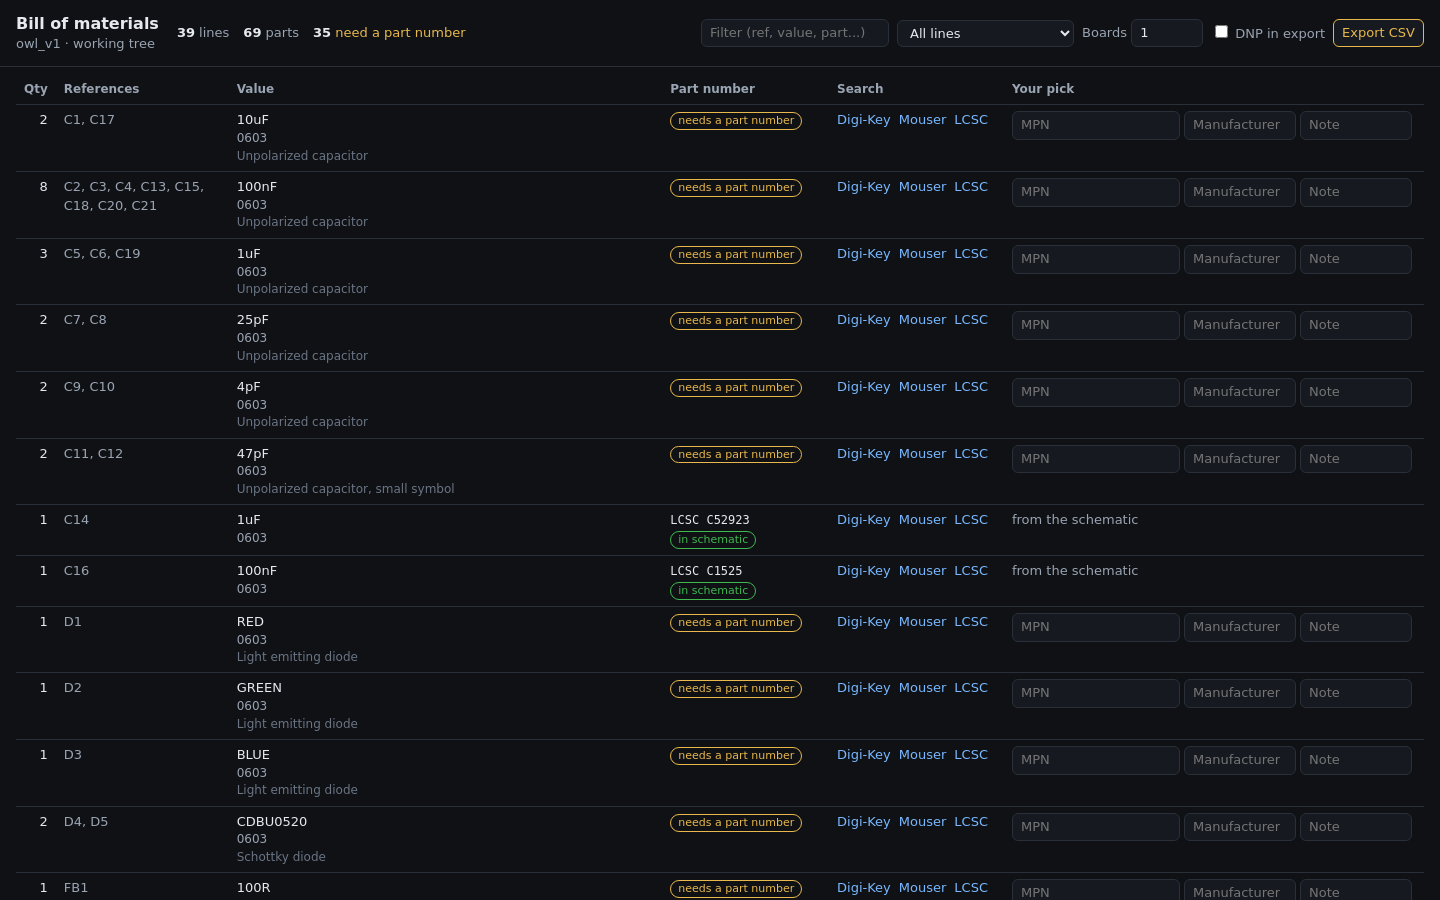
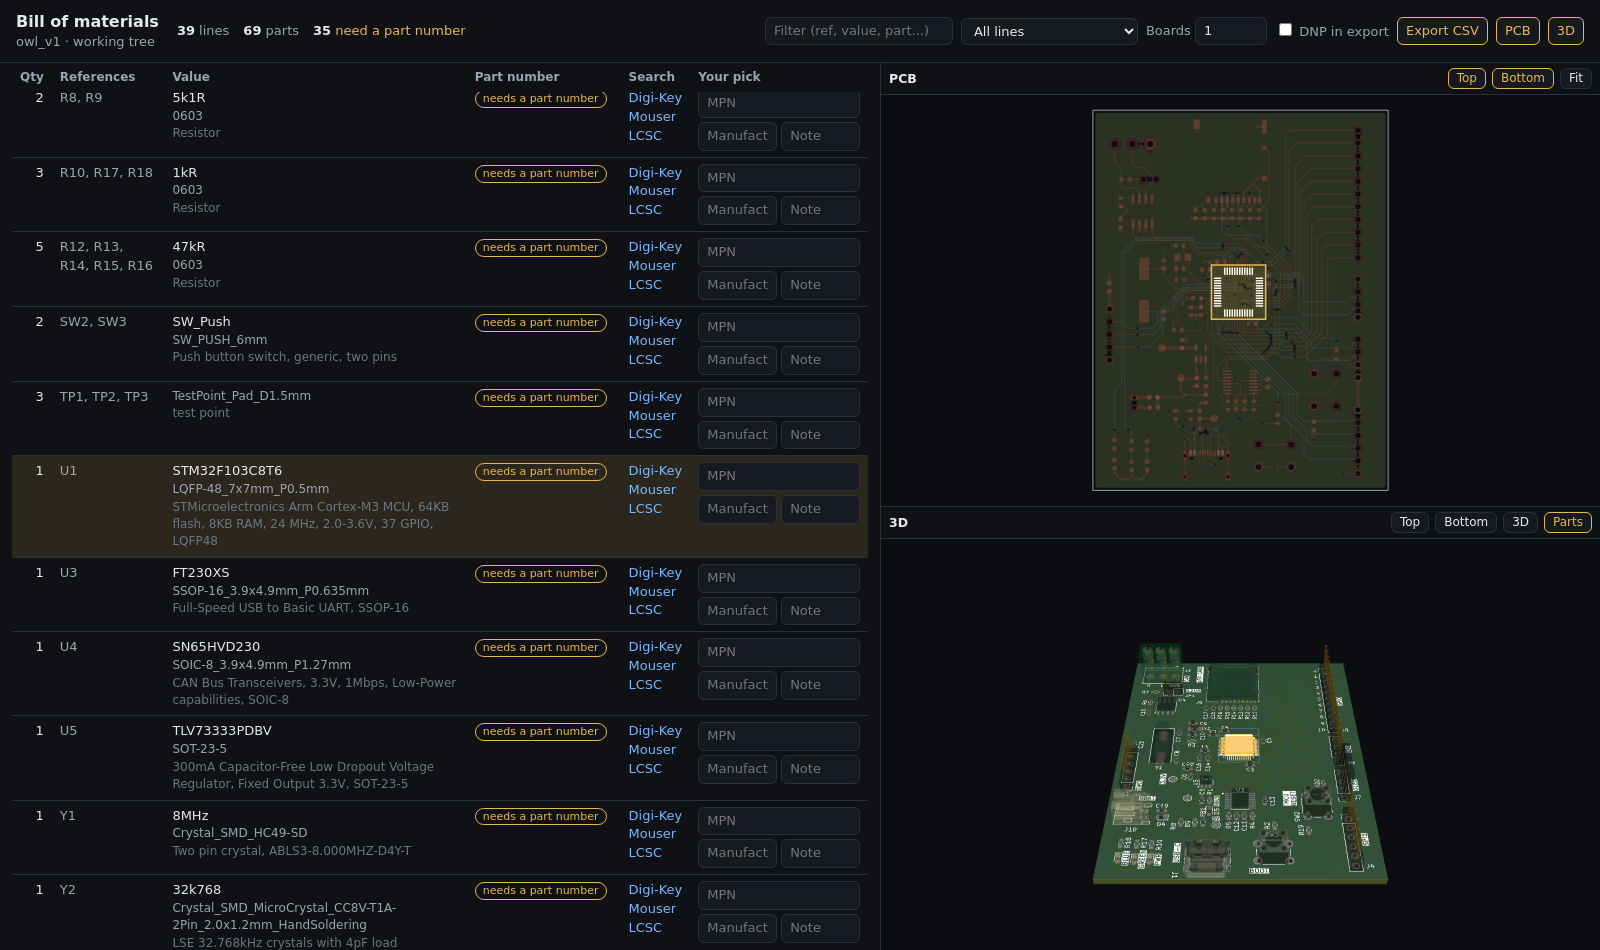
[feat] BOM system shows up with the pcb render and its pcb trace

diff --git a/gui/kigit_gui/bom.py b/gui/kigit_gui/bom.py
@@ -3,6 +3,10 @@ links to search Digi-Key, Mouser and LCSC for each line, the part number
 you chose for lines that have none, and a CSV for the distributors' BOM
 upload tools.
 
+Beside the list: the board in 2D (kigit's own board data, REV..REV) and
+in 3D (the 3D view's model, made after the page opens). Hovering a line
+lights its parts up in both; hovering a part lights its line up.
+
 Only made when asked (the header's BOM button); nothing runs in the
 background. Your picks are kept next to the board in kigit-bom.json (in
 git, so they go with the project), keyed by a line's value and footprint,
@@ -17,11 +21,11 @@ import json
 import re
 import secrets
 import time
-from dataclasses import dataclass
+from dataclasses import dataclass, field
 from pathlib import Path
 
 from fastapi import Request
-from fastapi.responses import HTMLResponse, JSONResponse, Response
+from fastapi.responses import FileResponse, HTMLResponse, JSONResponse, Response
 from nicegui import app
 
 PICKS = "kigit-bom.json"
@@ -33,6 +37,12 @@ class Job:
     board: str
     title: str
     data: dict
+    board_json: str = ""            # the 2D view's data, a file in CACHE ("" if it couldn't be made)
+    glb: str = ""                   # the 3D model, a file in CACHE (made after the page opens)
+    model_ready: bool = False
+    model_error: str = ""
+    expected: float | None = None   # seconds the 3D build should take, if known
+    started: float = field(default_factory=time.monotonic)
 
 
 jobs: dict[str, Job] = {}
@@ -92,6 +102,25 @@ async def _page(key: str) -> Response:
     return HTMLResponse(page(key, job))
 
 
+@app.get("/bom/{key}/board.json")
+async def _board(key: str) -> Response:
+    from .app import CACHE
+
+    job = jobs.get(key)
+    if job is None or not job.board_json or not (CACHE / job.board_json).is_file():
+        return JSONResponse({"error": "no board data"}, status_code=404)
+    return FileResponse(CACHE / job.board_json, media_type="application/json")
+
+
+@app.get("/bom/{key}/status")
+async def _status(key: str) -> Response:
+    job = jobs.get(key)
+    if job is None:
+        return JSONResponse({"error": "gone"}, status_code=404)
+    return JSONResponse({"ready": job.model_ready, "error": job.model_error, "glb": f"/diffs/{job.glb}",
+                         "elapsed": time.monotonic() - job.started, "expected": job.expected})
+
+
 @app.get("/bom/{key}/picks")
 async def _picks(key: str) -> Response:
     job = jobs.get(key)
@@ -125,175 +154,4 @@ def page(key: str, job: Job) -> str:
             .replace("%%DATA%%", data))
 
 
-_PAGE = """<!doctype html>
-<html lang="en">
-<head>
-<meta charset="utf-8">
-<meta name="viewport" content="width=device-width, initial-scale=1">
-<title>BOM · %%TITLE%%</title>
-<style>
-:root { --bg: #0f1115; --panel: #161a20; --line: #29303a; --text: #e6e9ee; --muted: #9aa4b2; --faint: #6b7584;
-  --accent: #e8b84d; --ok: #3fb950; --warn: #e8b84d; --bad: #f85149; --link: #79b8ff; }
-@media (prefers-color-scheme: light) { :root { --bg: #f6f7f9; --panel: #fff; --line: #d8dde4; --text: #1d2229;
-  --muted: #5b6573; --faint: #8a94a3; --accent: #9a6b00; --ok: #1a7f37; --warn: #9a6b00; --bad: #cf222e; --link: #0969da; } }
-* { box-sizing: border-box; }
-body { margin: 0; background: var(--bg); color: var(--text); font: 13px/1.45 system-ui, -apple-system, "Segoe UI", sans-serif; }
-header { position: sticky; top: 0; z-index: 2; background: var(--bg); border-bottom: 1px solid var(--line);
-  padding: 12px 16px; display: flex; flex-wrap: wrap; gap: 8px 18px; align-items: center; }
-h1 { font-size: 16px; margin: 0; } .sub { color: var(--muted); }
-.stats { display: flex; gap: 14px; color: var(--muted); }
-.stats b { color: var(--text); }
-.tools { margin-left: auto; display: flex; gap: 8px; align-items: center; flex-wrap: wrap; }
-input, select, button { font: inherit; color: var(--text); background: var(--panel); border: 1px solid var(--line);
-  border-radius: 6px; padding: 4px 8px; }
-button { cursor: pointer; } button:hover { border-color: var(--accent); }
-button.primary { border-color: var(--accent); color: var(--accent); }
-main { padding: 8px 16px 40px; }
-table { width: 100%; border-collapse: collapse; }
-th { text-align: left; font-weight: 600; color: var(--muted); font-size: 12px; padding: 6px 8px; border-bottom: 1px solid var(--line);
-  position: sticky; top: var(--head, 56px); background: var(--bg); z-index: 1; }
-td { padding: 6px 8px; border-bottom: 1px solid var(--line); vertical-align: top; }
-tr.dnp td { opacity: .55; }
-.refs { color: var(--muted); max-width: 18rem; }
-.qty { text-align: right; font-variant-numeric: tabular-nums; }
-.pkg { color: var(--muted); font-size: 12px; } .desc { color: var(--faint); font-size: 12px; }
-.num { font-family: ui-monospace, Menlo, Consolas, monospace; font-size: 12px; }
-.chip { display: inline-block; font-size: 11px; border-radius: 999px; padding: 0 7px; border: 1px solid; white-space: nowrap; }
-.chip.ok { color: var(--ok); } .chip.picked { color: var(--link); } .chip.need { color: var(--warn); } .chip.dnp { color: var(--faint); }
-.links a { color: var(--link); text-decoration: none; margin-right: 8px; white-space: nowrap; }
-.links a:hover { text-decoration: underline; }
-.pick { display: flex; gap: 4px; align-items: center; }
-.pick input { width: 10.5rem; min-width: 0; } .pick input.maker { width: 7rem; } .pick input.note { width: 7rem; }
-@media (max-width: 1100px) { .pick { flex-wrap: wrap; } }
-.pick .saved { color: var(--ok); font-size: 11px; align-self: center; }
-.empty { color: var(--faint); padding: 30px; text-align: center; }
-.foot { color: var(--faint); font-size: 12px; margin-top: 14px; }
-</style>
-</head>
-<body>
-<header id="head">
-  <div><h1>Bill of materials</h1><div class="sub">%%TITLE%%</div></div>
-  <div class="stats" id="stats"></div>
-  <div class="tools">
-    <input id="filter" placeholder="Filter (ref, value, part...)" aria-label="Filter">
-    <select id="show" aria-label="Show">
-      <option value="all">All lines</option><option value="need">Needs a part number</option>
-      <option value="has">Has a part number</option>
-    </select>
-    <label class="sub">Boards <input id="boards" type="number" min="1" value="1" style="width:4.5rem"></label>
-    <label class="sub"><input id="dnp" type="checkbox"> DNP in export</label>
-    <button id="export" class="primary" title="A CSV for Digi-Key's BOM Manager or Mouser's BOM Tool">Export CSV</button>
-  </div>
-</header>
-<main>
-<table>
-  <thead><tr><th class="qty">Qty</th><th>References</th><th>Value</th><th>Part number</th><th>Search</th><th>Your pick</th></tr></thead>
-  <tbody id="rows"></tbody>
-</table>
-<div class="foot">Picks are saved as you type, in <code>%%PICKS_FILE%%</code> (commit it to share them). Part numbers in the
-schematic win over picks. The search links only open the distributors' sites: nothing is sent anywhere by kigit.</div>
-</main>
-<script>
-const DATA = %%DATA%%, KEY = "%%KEY%%", NAME = %%NAME%%;
-let picks = {};
-const $ = (id) => document.getElementById(id);
-const esc = (t) => String(t ?? "").replace(/[&<>"]/g, (c) => ({ "&": "&amp;", "<": "&lt;", ">": "&gt;", '"': "&quot;" })[c]);
-const keyOf = (l) => `${l.value}|${l.footprint}`;
-const own = (l) => l.mpn || l.digikey || l.mouser || l.lcsc;  // a number from the schematic
-const enc = (q) => encodeURIComponent(q).replace(/%20/g, "+");
-function links(l) {
-  const p = picks[keyOf(l)], q = !own(l) && p?.mpn ? p.mpn : null;  // a pick searches for itself
-  const url = (site) => q ? { digikey: "https://www.digikey.com/en/products/result?keywords=", mouser: "https://www.mouser.com/c/?q=",
-    lcsc: "https://www.lcsc.com/search?q=" }[site] + enc(q) : l.links[site];
-  return `<a href="${esc(url("digikey"))}" target="_blank" rel="noopener">Digi-Key</a>` +
-    `<a href="${esc(url("mouser"))}" target="_blank" rel="noopener">Mouser</a>` +
-    `<a href="${esc(url("lcsc"))}" target="_blank" rel="noopener">LCSC</a>`;
-}
-function number(l) {
-  if (l.mpn) return `<span class="num">${esc(l.manufacturer ? l.manufacturer + " " : "")}${esc(l.mpn)}</span>`;
-  const other = [["Digi-Key", l.digikey], ["Mouser", l.mouser], ["LCSC", l.lcsc]].filter(([, v]) => v);
-  if (other.length) return other.map(([s, v]) => `<span class="num">${s} ${esc(v)}</span>`).join("<br>");
-  return "";
-}
-function status(l) {
-  if (l.dnp) return `<span class="chip dnp">DNP</span>`;
-  if (own(l)) return `<span class="chip ok">in schematic</span>`;
-  if (picks[keyOf(l)]?.mpn) return `<span class="chip picked">picked</span>`;
-  return `<span class="chip need" title="No part number in the schematic: search, then put the one you choose in Your pick">needs a part number</span>`;
-}
-function render() {
-  const f = $("filter").value.trim().toLowerCase(), show = $("show").value;
-  const rows = DATA.lines.filter((l) => {
-    const has = own(l) || picks[keyOf(l)]?.mpn;
-    if (show === "need" && (has || l.dnp)) return false;
-    if (show === "has" && !has) return false;
-    if (!f) return true;
-    return [l.refs.join(" "), l.value, l.footprint, l.mpn, l.manufacturer, l.description, picks[keyOf(l)]?.mpn]
-      .join(" ").toLowerCase().includes(f);
-  });
-  $("rows").innerHTML = rows.map((l) => {
-    const i = DATA.lines.indexOf(l), p = picks[keyOf(l)] || {};
-    const pick = own(l) ? `<span class="sub">from the schematic</span>` :
-      `<div class="pick" data-i="${i}"><input class="mpn" placeholder="MPN" value="${esc(p.mpn)}" aria-label="Part number you chose">` +
-      `<input class="maker" placeholder="Manufacturer" value="${esc(p.manufacturer)}" aria-label="Manufacturer">` +
-      `<input class="note" placeholder="Note" value="${esc(p.note)}" aria-label="Note"><span class="saved"></span></div>`;
-    return `<tr class="${l.dnp ? "dnp" : ""}"><td class="qty">${l.qty}</td><td class="refs">${esc(l.refs.join(", "))}</td>` +
-      `<td>${esc(l.value)}<div class="pkg">${esc(l.package)}</div>${l.description ? `<div class="desc">${esc(l.description)}</div>` : ""}</td>` +
-      `<td>${number(l)} ${status(l)}</td><td class="links">${links(l)}</td><td>${pick}</td></tr>`;
-  }).join("") || `<tr><td colspan="6" class="empty">Nothing to show.</td></tr>`;
-  stats();
-}
-function stats() {
-  const lines = DATA.lines, need = lines.filter((l) => !l.dnp && !own(l) && !picks[keyOf(l)]?.mpn).length;
-  $("stats").innerHTML = `<span><b>${lines.length}</b> lines</span><span><b>${DATA.summary.parts}</b> parts</span>` +
-    (DATA.summary.dnp_parts ? `<span><b>${DATA.summary.dnp_parts}</b> not populated</span>` : "") +
-    `<span style="color:${need ? "var(--warn)" : "var(--ok)"}"><b>${need}</b> need a part number</span>`;
-  document.documentElement.style.setProperty("--head", $("head").offsetHeight + "px");
-}
-// Picks: saved a moment after typing stops.
-const timers = {};
-$("rows").addEventListener("input", (e) => {
-  const box = e.target.closest(".pick"); if (!box) return;
-  const l = DATA.lines[+box.dataset.i], k = keyOf(l);
-  const pick = { mpn: box.querySelector(".mpn").value, manufacturer: box.querySelector(".maker").value, note: box.querySelector(".note").value };
-  box.querySelector(".saved").textContent = "";
-  clearTimeout(timers[k]);
-  timers[k] = setTimeout(async () => {
-    try {
-      const r = await fetch(`/bom/${KEY}/picks`, { method: "POST", headers: { "Content-Type": "application/json" }, body: JSON.stringify({ key: k, pick }) });
-      if (!r.ok) throw new Error((await r.json()).error || r.status);
-      picks = await r.json();
-      box.querySelector(".saved").textContent = "saved";
-      const row = box.closest("tr"); row.children[3].innerHTML = `${number(l)} ${status(l)}`; row.children[4].innerHTML = links(l);
-      stats();
-    } catch (err) { box.querySelector(".saved").textContent = "not saved: " + err.message; box.querySelector(".saved").style.color = "var(--bad)"; }
-  }, 600);
-});
-$("filter").addEventListener("input", render);
-$("show").addEventListener("change", render);
-// The CSV: what Digi-Key's BOM Manager and Mouser's BOM Tool read (they let you match the columns).
-function csv() {
-  const boards = Math.max(1, parseInt($("boards").value, 10) || 1), withDnp = $("dnp").checked;
-  const cell = (v) => { v = String(v ?? ""); return /[",\\n\\r]/.test(v) ? `"${v.replace(/"/g, '""')}"` : v; };
-  const out = [["Quantity", "Manufacturer", "Manufacturer Part Number", "Digi-Key Part Number", "Mouser Part Number", "LCSC Part Number",
-    "References", "Value", "Footprint", "DNP", "Note"]];
-  for (const l of DATA.lines) {
-    if (l.dnp && !withDnp) continue;
-    const p = own(l) ? {} : (picks[keyOf(l)] || {});
-    out.push([l.dnp ? 0 : l.qty * boards, l.manufacturer || p.manufacturer, l.mpn || p.mpn, l.digikey, l.mouser, l.lcsc,
-      l.refs.join(" "), l.value, l.footprint, l.dnp ? "DNP" : "", p.note]);
-  }
-  return out.map((r) => r.map(cell).join(",")).join("\\r\\n") + "\\r\\n";
-}
-$("export").addEventListener("click", () => {
-  const a = document.createElement("a");
-  a.href = URL.createObjectURL(new Blob([csv()], { type: "text/csv" }));
-  a.download = `${NAME}-bom.csv`; a.click(); setTimeout(() => URL.revokeObjectURL(a.href), 1000);
-});
-window.kigitBom = { csv, picks: () => picks };  // for scripted checks
-fetch(`/bom/${KEY}/picks`).then((r) => r.json()).then((p) => { picks = p; render(); }).catch(() => render());
-addEventListener("resize", stats);
-</script>
-</body>
-</html>
-"""
+_PAGE = open(Path(__file__).with_name("bom_page.html"), encoding="utf-8").read()

diff --git a/gui/kigit_gui/app.py b/gui/kigit_gui/app.py
@@ -1695,16 +1695,34 @@ body.kigit-dragging iframe { pointer-events: none; }  /* else the frames swallow
         picked = table.selected if len(table.selected) == 1 else []
         rev = picked[0]["hash"] if picked else LOCAL
         name = state.get("name") or Path(board).stem
-        try:
-            data = await kigit.bom(board, rev)
-        except kigit.KigitError as e:
+        # The board for the 2D view: kept per revision (LOCAL: by the board's time and size).
+        glb = board3d_name(board, rev)
+        board_data = Path(glb).stem + "-board.json"
+        data, made = await asyncio.gather(kigit.bom(board, rev), kigit.board_json(board, rev, CACHE / board_data),
+                                          return_exceptions=True)
+        if isinstance(data, BaseException):
             tab(None)
-            notify(f"Couldn't make the BOM: {e}", type="warning")
+            notify(f"Couldn't make the BOM: {data}", type="warning")
             return
+        if isinstance(made, BaseException):  # the list still works without the 2D board
+            logs.log.warning("bom: no board data: %s", made)
+            board_data = ""
         title = f"{name} · {'working tree' if rev == LOCAL else short_rev(rev)}"
-        key = bom.new_job(bom.Job(board, title, data))
+        todo = not (CACHE / glb).exists()
+        job = bom.Job(board, title, data, board_json=board_data, glb=glb,
+                      expected=buildtime.estimate(board, 1) if todo else 1.0)
+        key = bom.new_job(job)
         logs.log.info("bom of %s at %s (job %s)", board, short_rev(rev), key)
         tab(f"/bom/{key}")
+        # Then the 3D model, while the page shows the list and the 2D board.
+        try:
+            failed = await build_models({rev: glb})
+            if failed:
+                job.model_error = str(failed[0][1])
+            else:
+                job.model_ready = True
+        except (kigit.KigitError, OSError) as e:
+            job.model_error = str(e)
 
     async def open_3d_diff() -> None:
         """The 3D diff (beta) of the comparison on screen, in a new tab: it

diff --git a/gui/tests/test_bom.py b/gui/tests/test_bom.py
@@ -48,10 +48,15 @@ def test_page_has_the_data_and_no_html_injection() -> None:
 
 
 @pytest.mark.skipif(not shutil.which("node"), reason="needs Node.js to check the script")
-def test_page_script_parses(tmp_path: Path) -> None:
-    scripts = re.findall(r"<script>(.*?)</script>", _page(), re.S)
-    assert len(scripts) == 1
-    f = tmp_path / "page.js"
-    f.write_text(scripts[0], encoding="utf-8")
-    r = subprocess.run(["node", "--check", str(f)], capture_output=True, text=True)
-    assert r.returncode == 0, r.stderr
+def test_page_scripts_parse(tmp_path: Path) -> None:
+    page = _page()
+    plain = re.findall(r"<script>(.*?)</script>", page, re.S)
+    module = re.findall(r'<script type="module">(.*?)</script>', page, re.S)
+    assert len(plain) == 1 and len(module) == 1  # the list and 2D board; the 3D board
+    # The module's imports are resolved by the importmap; node only needs to parse.
+    module = [re.sub(r'^import .*? from "\w+";$', "", module[0], flags=re.M)]
+    for name, text in (("page.js", plain[0]), ("page3d.mjs", module[0])):
+        f = tmp_path / name
+        f.write_text(text, encoding="utf-8")
+        r = subprocess.run(["node", "--check", str(f)], capture_output=True, text=True)
+        assert r.returncode == 0, f"{name}: {r.stderr}"

diff --git a/gui/tests/test_app.py b/gui/tests/test_app.py
@@ -942,6 +942,13 @@ async def test_bom_page(user: User, monkeypatch) -> None:
     job = made[0]
     assert "working tree" in job.title and job.data["summary"]["parts"] > 0
     assert all("links" in line for line in job.data["lines"])
+    board = json.loads((app.CACHE / job.board_json).read_text(encoding="utf-8"))  # the 2D board
+    assert any(it["k"] == "p" and it.get("ref") for it in board["items"])
+    for _ in range(100):  # the 3D model: no KiCad in the tests, so it fails, said on the page
+        if job.model_ready or job.model_error:
+            break
+        await asyncio.sleep(0.1)
+    assert job.model_error and not job.model_ready
 
     rows = commit_table(user).rows
     await select(user, [rows[1]])

diff --git a/gui/kigit_gui/kigit.py b/gui/kigit_gui/kigit.py
@@ -237,6 +237,12 @@ async def bom(board: str, rev: str = "LOCAL") -> dict:
     return json.loads(out)
 
 
+async def board_json(board: str, rev: str, out_file: Path) -> None:
+    """One revision's board as kigit's viewer data (outline, tracks, pads with
+    their parts, zones): kigit --json REV..REV. For the BOM page's 2D view."""
+    await _run("-n", "-q", "--json", "-o", str(out_file), f"{rev}..{rev}", board)
+
+
 async def diff_json(project: str, old: str, new: str, out_file: Path) -> None:
     """The comparison as kigit's JSON (what changed, where) for old..new, or
     two boards on disk ("disk:<board>", Compare folders). For the 3D diff."""

diff --git a/CHANGELOGS.md b/CHANGELOGS.md
@@ -6,7 +6,7 @@ All notable changes to kigit, newest first. The format follows [Keep a Changelog
 
 ### Added
 
-- **Bill of materials**: `kigit bom` and the GUI's **BOM** button, only when you ask. Parts grouped into lines with their part numbers (read from the usual field names: MPN, Manufacturer, DigiKey, Mouser, LCSC Part #...), DNP and excluded parts handled, and Digi-Key, Mouser and LCSC search links per line (by part number, or "10k 0603 resistor" for passives). In the GUI, put the part number you chose for a line that has none (kept in `kigit-bom.json` next to the board, for git), and export a CSV for Digi-Key's or Mouser's BOM upload, times the number of boards. Also `--csv` and `--json`.
+- **Bill of materials**: `kigit bom` and the GUI's **BOM** button, only when you ask. Parts grouped into lines with their part numbers (read from the usual field names: MPN, Manufacturer, DigiKey, Mouser, LCSC Part #...), DNP and excluded parts handled, and Digi-Key, Mouser and LCSC search links per line (by part number, or "10k 0603 resistor" for passives). In the GUI, put the part number you chose for a line that has none (kept in `kigit-bom.json` next to the board, for git), and export a CSV for Digi-Key's or Mouser's BOM upload, times the number of boards. Beside the list, the board in 2D (from the board file) and in 3D: hover a line and its parts light up on both; hover a part on either and its line lights up. Also `--csv` and `--json`.
 
 ## [0.2.3] - 2026-11-18
 

diff --git a/docs/how-to-use/bom.md b/docs/how-to-use/bom.md
@@ -4,8 +4,20 @@ kigit makes your board's bill of materials when you ask for it: in the GUI with 
 
 <figure markdown="span">
   ![The BOM page for owl_v1](../img/gui/bom.png)
-  <figcaption>The BOM page: a line per part, its part number (or a note that it has none), searches on Digi-Key, Mouser and LCSC, and the part number you chose.</figcaption>
+  <figcaption>The BOM page with U1 hovered: lit on the board in 2D and in 3D.</figcaption>
 </figure>
+
+## The board beside the list
+
+On the right, the board twice: **PCB** (drawn from the board file itself: outline, copper on each layer, pours, tracks, vias and pads) and **3D** (the same model as the 3D view).
+
+- **Hover a line**: its parts light up on both, with a box around each, and the rest fades.
+- **Hover a part** on either: its line lights up (the list scrolls to it), with a tooltip saying what it is.
+- **Click a line** to keep its parts lit while you look around (click again to let go); the PCB zooms to them if they're off screen.
+- PCB: scroll to zoom, drag to pan, **Top** / **Bottom** show or hide each side, **Fit**. 3D: drag to turn, as in the 3D view.
+- **PCB** and **3D** in the header hide either pane (remembered).
+
+The PCB shows straight away. KiCad makes the 3D model after the page opens (seconds on a small board, a minute or more on a big one; a board already made is reused), with its progress in the pane. Without KiCad, the 3D pane says so and the rest works.
 
 ## What's on a line
 

diff --git a/AGENTS.md b/AGENTS.md
@@ -499,7 +499,18 @@ at once. localStorage settings are per origin, so per port.
   {...}}}`, re-read before each write, removed when empty); a schematic's
   own part number wins. Export CSV is made in the page (quantities x
   Boards, DNP left out unless ticked). Only on request: no background
-  lookups. Planned step 2: Digi-Key / Mouser API lookups (stock, price,
+  lookups. The page is `bom_page.html` (a plain file, read at import: no
+  Python escaping), placeholders `%%KEY%%` etc. Beside the list: a 2D
+  board drawn from `kigit --json REV..REV` (`kigit.board_json`, in CACHE
+  as `<3d name>-board.json`, served by `/bom/{key}/board.json`; pads keep
+  `data-ref`, a box per ref from its pads) and a 3D board (the 3D view's
+  model, `build_models` after the tab opens; `/bom/{key}/status` for the
+  wait). `light(refs, one)` lights a line's parts in both (`board2d.light`,
+  `window.bom3d.light`: tinted copies of the part's meshes + a Box3Helper,
+  other parts faded); hovering a pad or a part (box picking, as in the 3D
+  diff) calls `window.bomHover(ref)`. The 3D code is a trimmed copy of the
+  3D diff's (merge by material, materials, picking), sized to its pane
+  (ResizeObserver). Planned step 2: Digi-Key / Mouser API lookups (stock, price,
   lifecycle, alternatives), keys in the app folder.
 - 3D diff (beta, `board3d_diff.py`): separate from the 3D view, which
   stays as it is. The header's "3D diff" button (`diff3d_btn`, a "beta"
